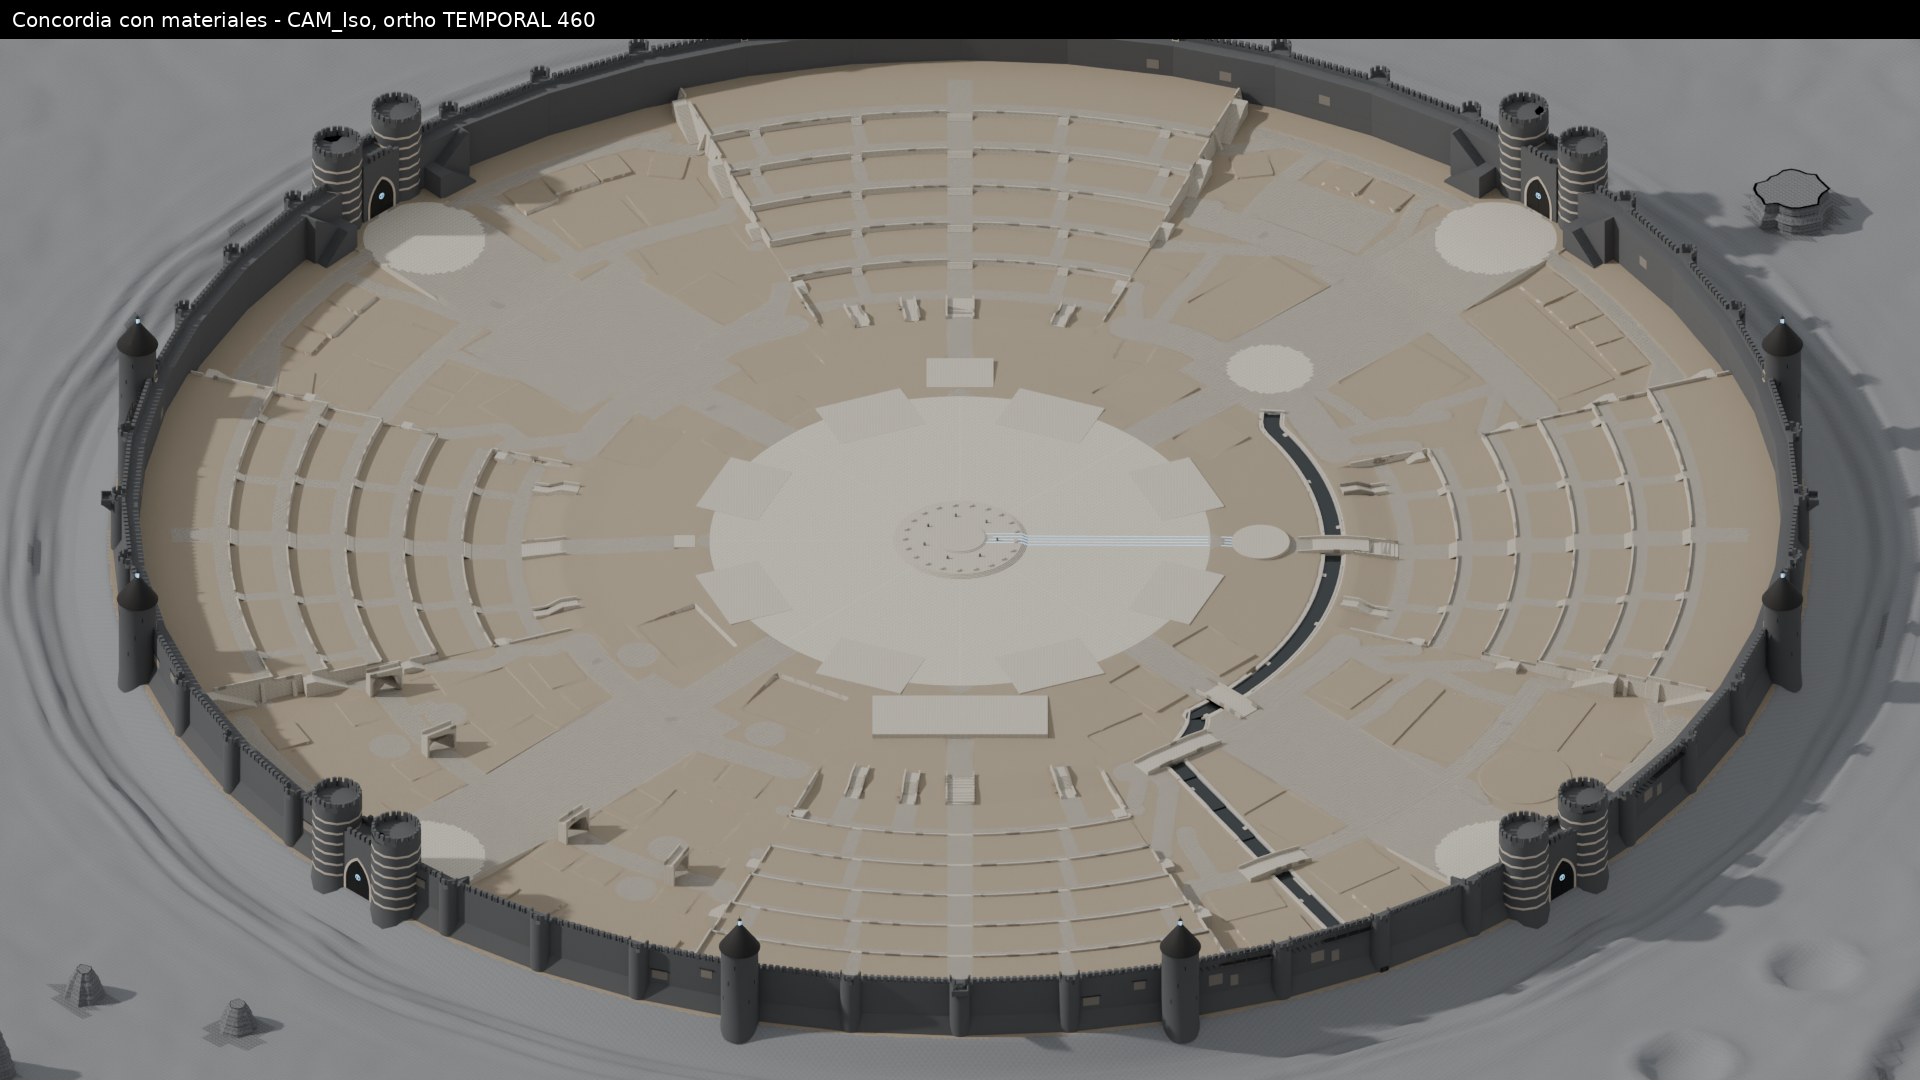
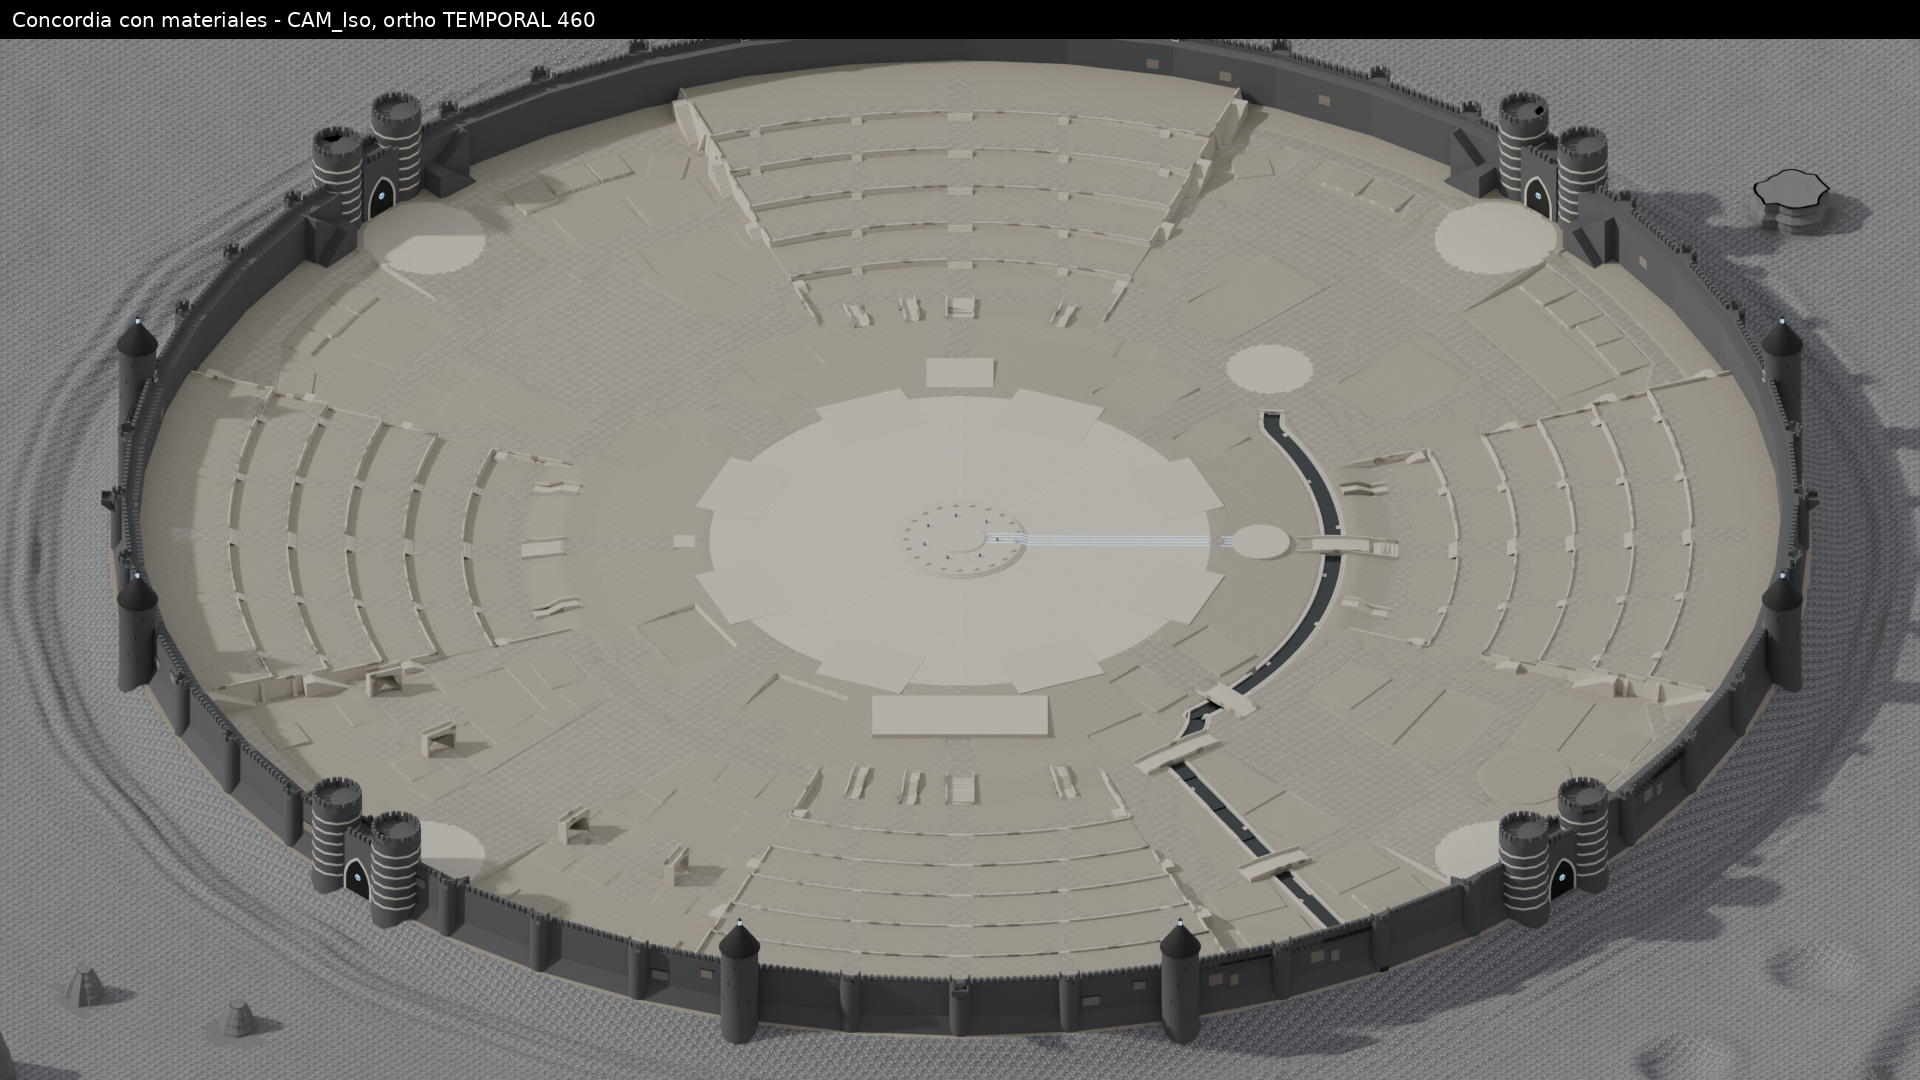
Etapa 09: capturas con texturas de Poly Haven (esferas sin solape, iso ciudad y Mercado)
Claude-Session: https://claude.ai/code/session_01Vh3uKVL4SkrnXJ8rCDz5r2

diff --git a/tools/blender/capture_stage09.py b/tools/blender/capture_stage09.py
@@ -37,13 +37,15 @@ def main():
     xs = [1000 + (i % 6) * 1.5 for i in range(len(names))]
     ys = [1000 + (i // 6) * 1.5 for i in range(len(names))]
     cam = K.new_cam("TMP_spheres", ortho=10.5)
-    cam.rotation_euler = (1.38, 0, 0)
+    cam.rotation_euler = (0.5, 0, 0)
     c = Vector((sum(xs) / len(xs), sum(ys) / len(ys), 0.5))
     d = cam.rotation_euler.to_matrix() @ Vector((0, 0, -1))
     cam.location = c - d * 40
     K.render(scene, cam, P("materiales_esferas"))
     K.annotate(scene, cam, P("materiales_esferas"), "Materiales de Concordia - esfera de 1 m por material (UV de mundo)",
                [(n[4:], (x, y, 1.08)) for n, x, y in zip(names, xs, ys)])
+    if "--" in sys.argv and "esferas" in sys.argv[-1]:
+        return
     cam_iso = bpy.data.objects[C.CAM_ISO_NAME]
     cam = K.iso_at(cam_iso, C.CAM_ISO_TARGET, 460.0)
     K.render(scene, cam, P("iso_ciudad"))
